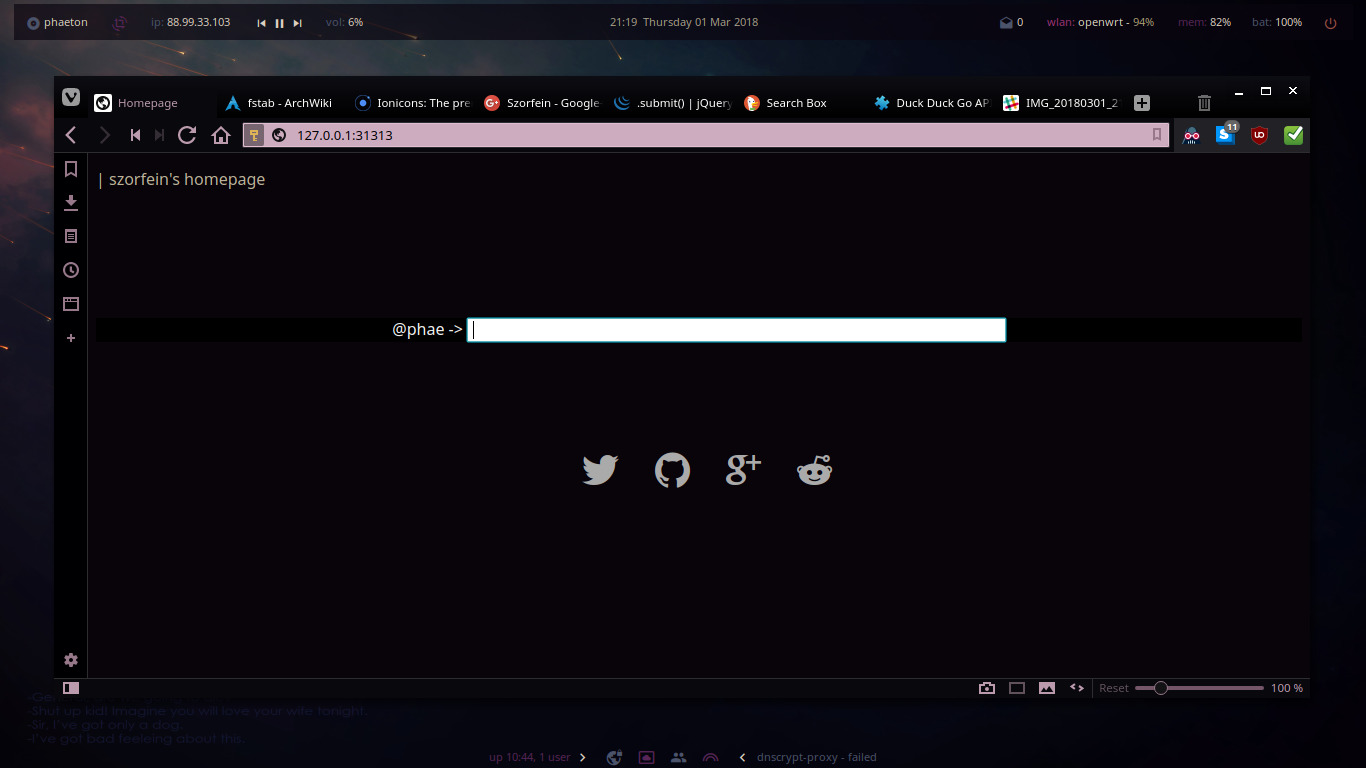
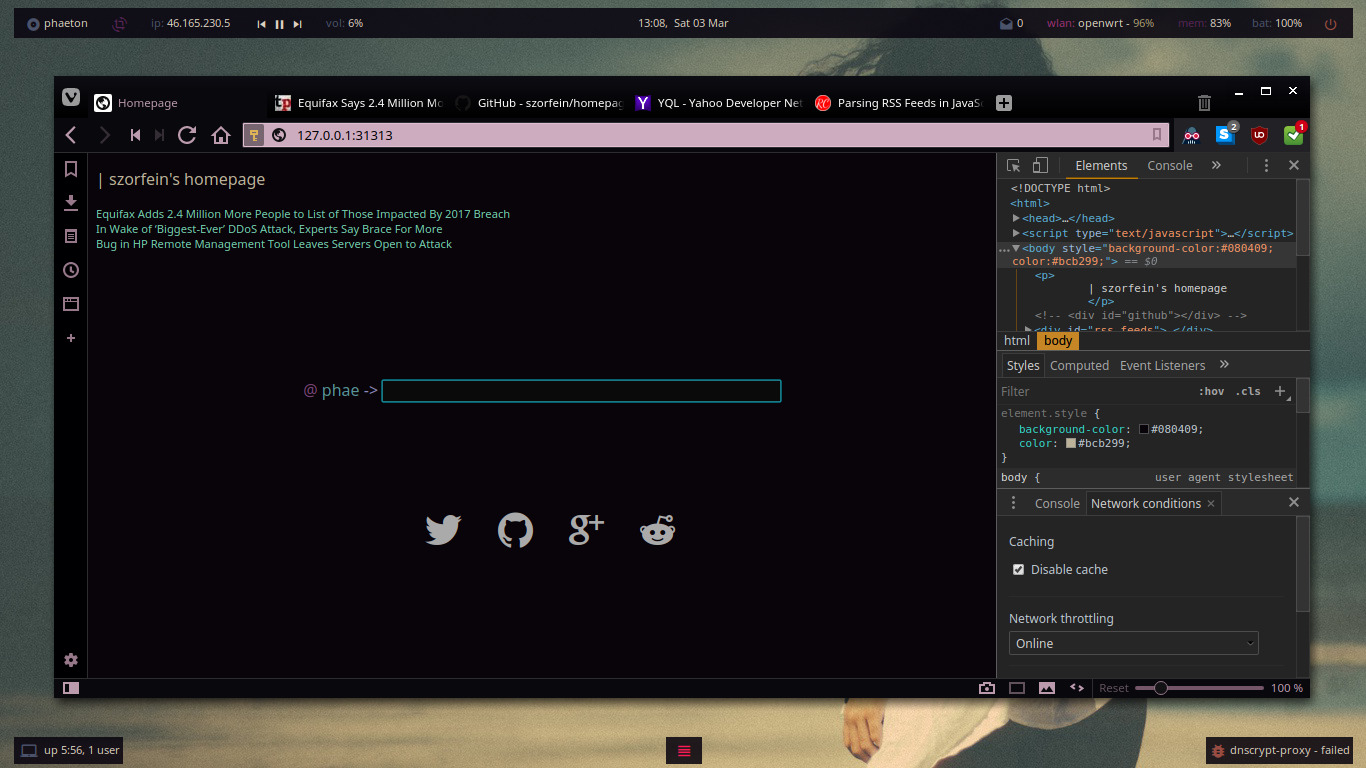
add base rss

diff --git a/assets/js/app.js b/assets/js/app.js
@@ -16,4 +16,42 @@ $(document).ready(function() {
     });
     /* focus on #search at start */
     $('#search').focus();
+    /* Github: https://developer.github.com/v3/#json-p-callbacks */
+    /*
+    $.ajaxSetup({
+        url: 'https://api.github.com/users/szorfein',
+        type: 'GET',
+        dataType: 'jsonp'
+    });
+
+    $.ajax({
+        success: function(res) {
+            console.log('github request success')
+            var html = ''
+            html += '<div>';
+            html += '<img src="'+res.data.avatar_url+'" />';
+            html += '<p> Repos:'+res.data.public_repos+'</p>';
+            html += '<p> Followers:'+res.data.followers+'</p>';
+            html += '</div>';
+            $('#github').html(html);
+        },
+        error: function (xhr, status) {
+            console.log("error");
+        }
+    });
+    */
+    /* Rss */
+    // src = https://www.raymondcamden.com/2015/12/08/parsing-rss-feeds-in-javascript-options/
+    // Yahoo api : https://developer.yahoo.com/yql/?dataTypeRadios=JSON
+    var yql = "https://query.yahooapis.com/v1/public/yql?q=select%20title%2Clink%20from%20rss%20where%20url%3D%22http%3A%2F%2Fthreatpost.com%2Ffeed%2F%22%20limit%203&format=json&env=store%3A%2F%2Fdatatables.org%2Falltableswithkeys";
+    $.getJSON(yql, function(res) {
+        data = res.query.results.item
+        html = '<p>'
+        console.log(res);
+        $.each(data, function(entryIndex, entry) {
+            html += '<a href="'+entry.link+'">'+entry.title + '</a><br />';
+        });
+        html += '</p>'
+        $('#rss-feeds').html(html)
+    }, "jsonp");
 });

diff --git a/assets/css/app.css b/assets/css/app.css
@@ -1,8 +1,6 @@
 form {
     margin-top: 8em;
     text-align: center;
-    background-color: #000;
-    color: #eee;
 }
 
 #search {
@@ -35,4 +33,31 @@ form {
 
 #social-link a:hover {
     color: #eeeeee;
+}
+
+#github {
+    width: 200px;
+    margin: auto;
+}
+
+#github img {
+    width: 40px;
+    height: 40px;
+}
+
+#github p {
+    display: inline-block;
+}
+
+#rss-feeds {
+    font-size: .7em;
+}
+
+#rss-feeds a {
+    color: #75ceae;
+    text-decoration: none;
+}
+
+#rss-feeds a:hover {
+    color: #95efcf;
 }

diff --git a/index.html b/index.html
@@ -7,6 +7,7 @@
         <link rel="stylesheet" href="assets/css/ionicons.min.css" />
         <link rel="stylesheet" href="assets/css/app.css" />
         <script src="assets/js/jquery-3.3.1.min.js"></script>
+
         <script src="assets/js/app.js"></script>
     </head>
 
@@ -14,6 +15,9 @@
         <p>
         | szorfein's homepage
         </p>
+
+        <!-- <div id="github"></div> -->
+        <div id="rss-feeds"></div>
 
         <p>
         <form action="https://duckduckgo.com/" method="get">

diff --git a/README.md b/README.md
@@ -7,7 +7,26 @@ I will include some icons too. We'll see.
 
 # Configuration
 
+## Social 
+
 Edit `social-link.json`, you can find icon name to [ionicons.com](http://ionicons.com).
+
+## Rss 
+
+To edit `rss-feeds.json`, you have to generate url from [yahoo](https://developer.yahoo.com/yql/?dataTypeRadios=JSON)  
+
+Imagine, you want follow news from `http://threatpost.com/feed/`, you go to yahoo link above and can set a thing like this:
+
++ Response : `JSON`
++ Yql query : `select title,link from rss where url="http://threatpost.com/feed/" limit 3`
+
+Yql query is like a sql language.
+
+You receive a line like this:
+```
+https://query.yahooapis.com/v1/public/yql?q=select%20title%2Clink%20from%20rss%20where%20url%3D%22http%3A%2F%2Fthreatpost.com%2Ffeed%2F%22%20limit%203&format=json&env=store%3A%2F%2Fdatatables.org%2Falltableswithkeys
+```
+And you past this line to `rss-feeds.json`.
 
 ## Troubleshooting
 
